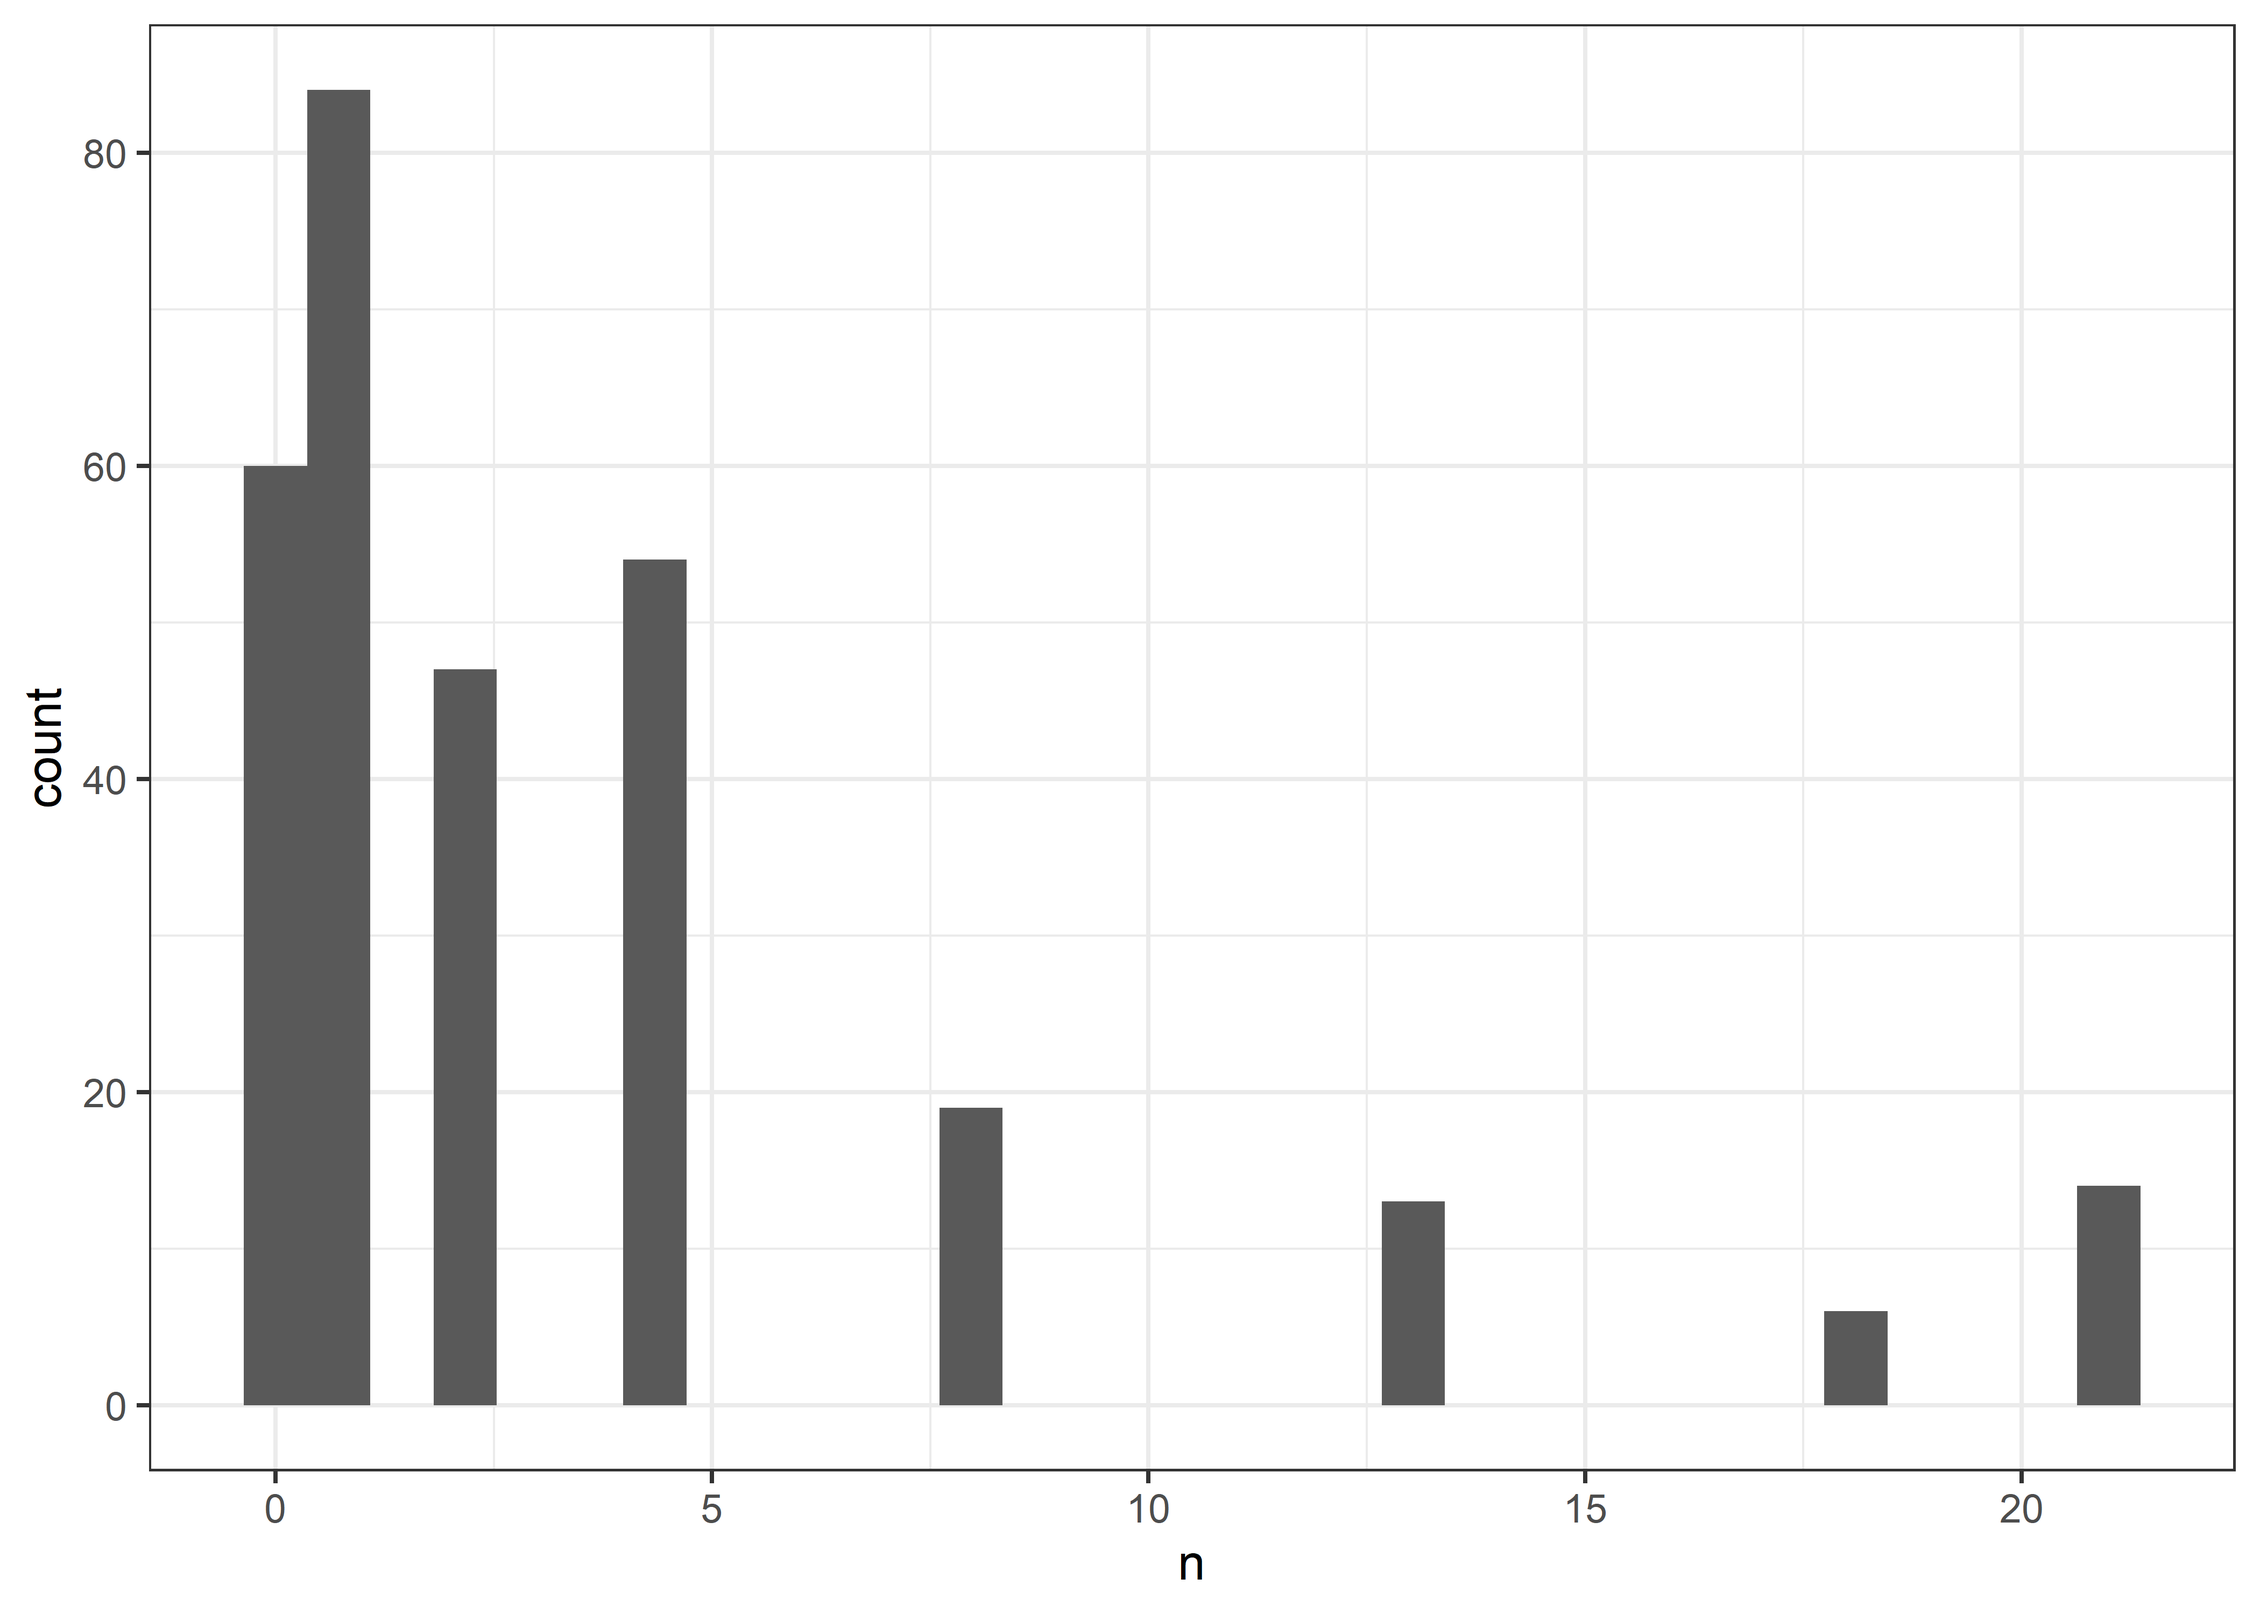
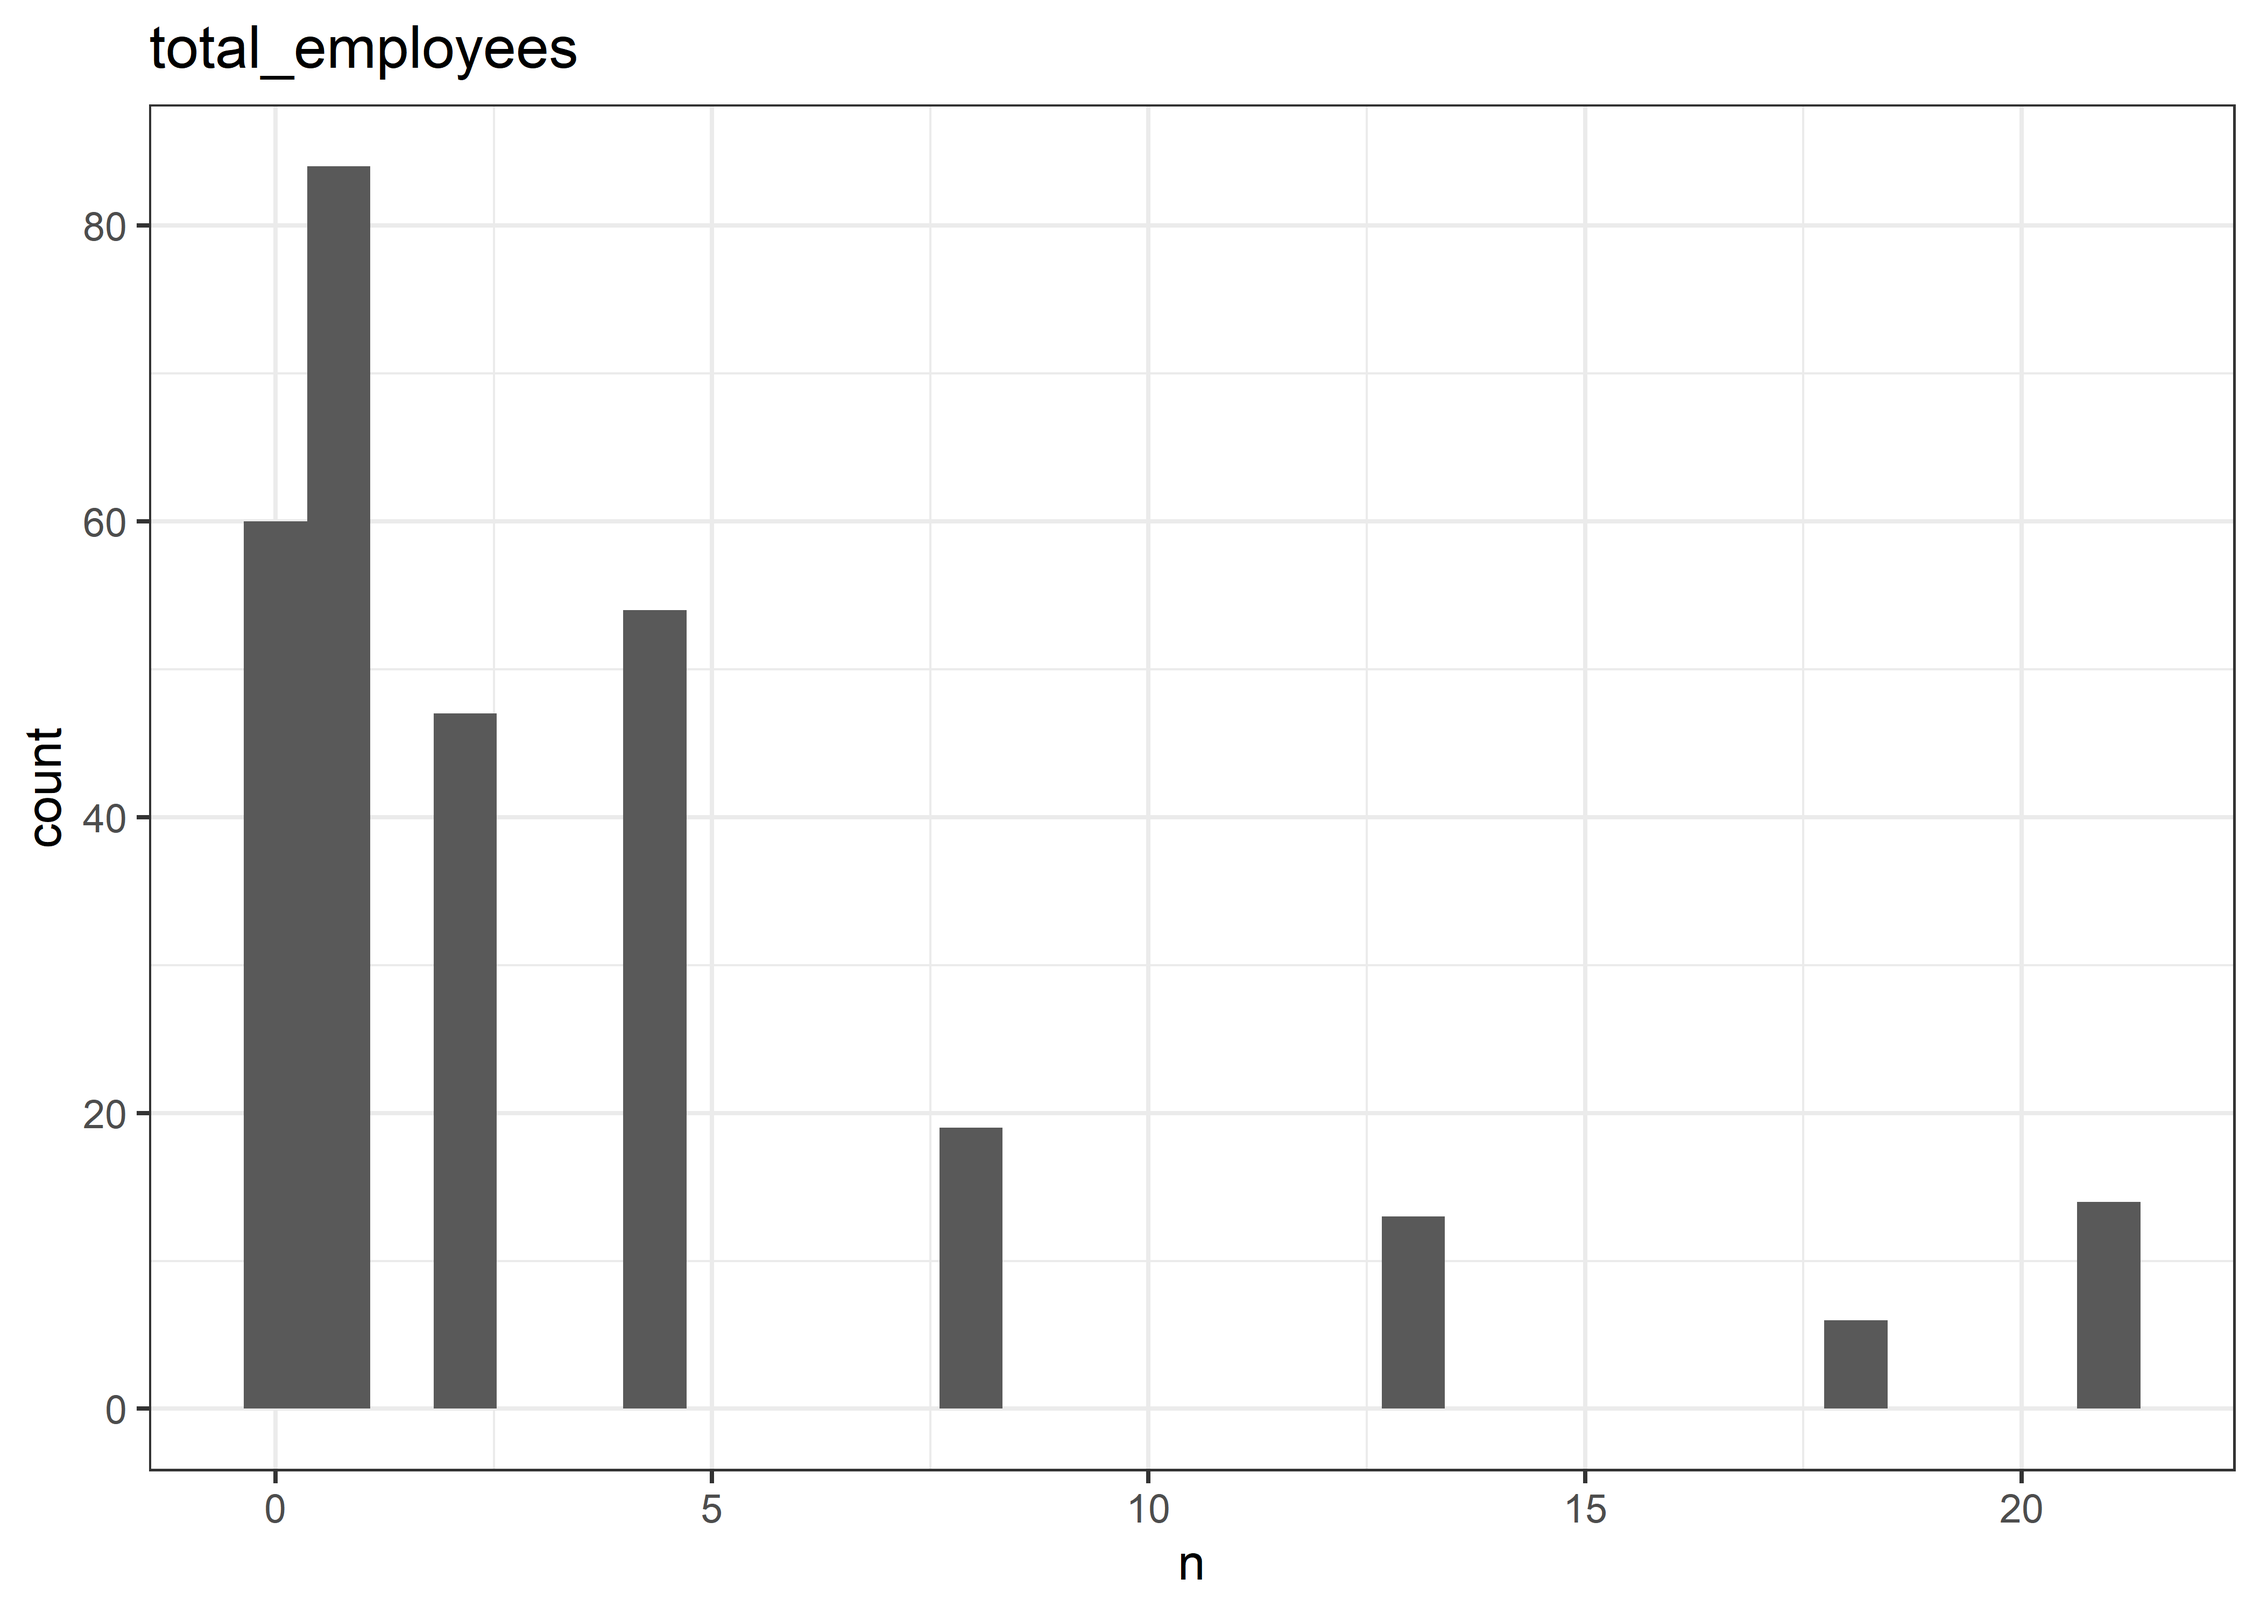
began work on the character columns that have numeric values

diff --git a/Publications.md b/Publications.md
@@ -255,24 +255,55 @@ news %>%
 
 ![](Publications_files/figure-gfm/unnamed-chunk-6-1.png)<!-- -->
 
-# Attempting to figure out total\_employees
+# Attempting to figure out the “numeric” columns
 
 ``` r
-news %>% 
-  select(total_employees) %>% 
-  filter(!is.na(total_employees)) %>% 
-  View()
+char_fun <- function(x){
+  news %>% 
+    filter(!is.na({{x}})) %>% 
+    separate({{x}}, c("a","b")) %>% 
+    select(a,b) %>% 
+    mutate(a = as.numeric(a), b = as.numeric(b)) %>%  
+    summarize(n = case_when(is.na(b) ~ a,
+                            !is.na(b) ~ (a + b)/2)) %>% 
+    ggplot(aes(n)) + geom_histogram()
+}
 
-news %>% 
-  filter(!is.na(total_employees)) %>% 
-  separate(total_employees, c("a","b")) %>% 
-  select(a,b) %>% 
-  mutate(a = as.numeric(a), b = as.numeric(b)) %>%  
-  summarize(n = case_when(is.na(b) ~ a,
-                          !is.na(b) ~ (a + b)/2)) %>% 
-  ggplot(aes(n)) + geom_histogram()
+char_fun(total_employees) + ggtitle("total_employees")
 ```
 
     ## `stat_bin()` using `bins = 30`. Pick better value with `binwidth`.
 
 ![](Publications_files/figure-gfm/unnamed-chunk-7-1.png)<!-- -->
+
+``` r
+char_fun(budget_percent_editorial) + ggtitle("budget_percent_editorial")
+```
+
+    ## `stat_bin()` using `bins = 30`. Pick better value with `binwidth`.
+
+![](Publications_files/figure-gfm/unnamed-chunk-7-2.png)<!-- -->
+
+``` r
+char_fun(budget_percent_revenue_generation) + ggtitle("budget_percent_revenue_generation")
+```
+
+    ## `stat_bin()` using `bins = 30`. Pick better value with `binwidth`.
+
+![](Publications_files/figure-gfm/unnamed-chunk-7-3.png)<!-- -->
+
+``` r
+char_fun(budget_percent_product_technology) + ggtitle("budget_percent_product_technology")
+```
+
+    ## `stat_bin()` using `bins = 30`. Pick better value with `binwidth`.
+
+![](Publications_files/figure-gfm/unnamed-chunk-7-4.png)<!-- -->
+
+``` r
+char_fun(budget_percent_administration) + ggtitle("budget_percent_administration")
+```
+
+    ## `stat_bin()` using `bins = 30`. Pick better value with `binwidth`.
+
+![](Publications_files/figure-gfm/unnamed-chunk-7-5.png)<!-- -->
